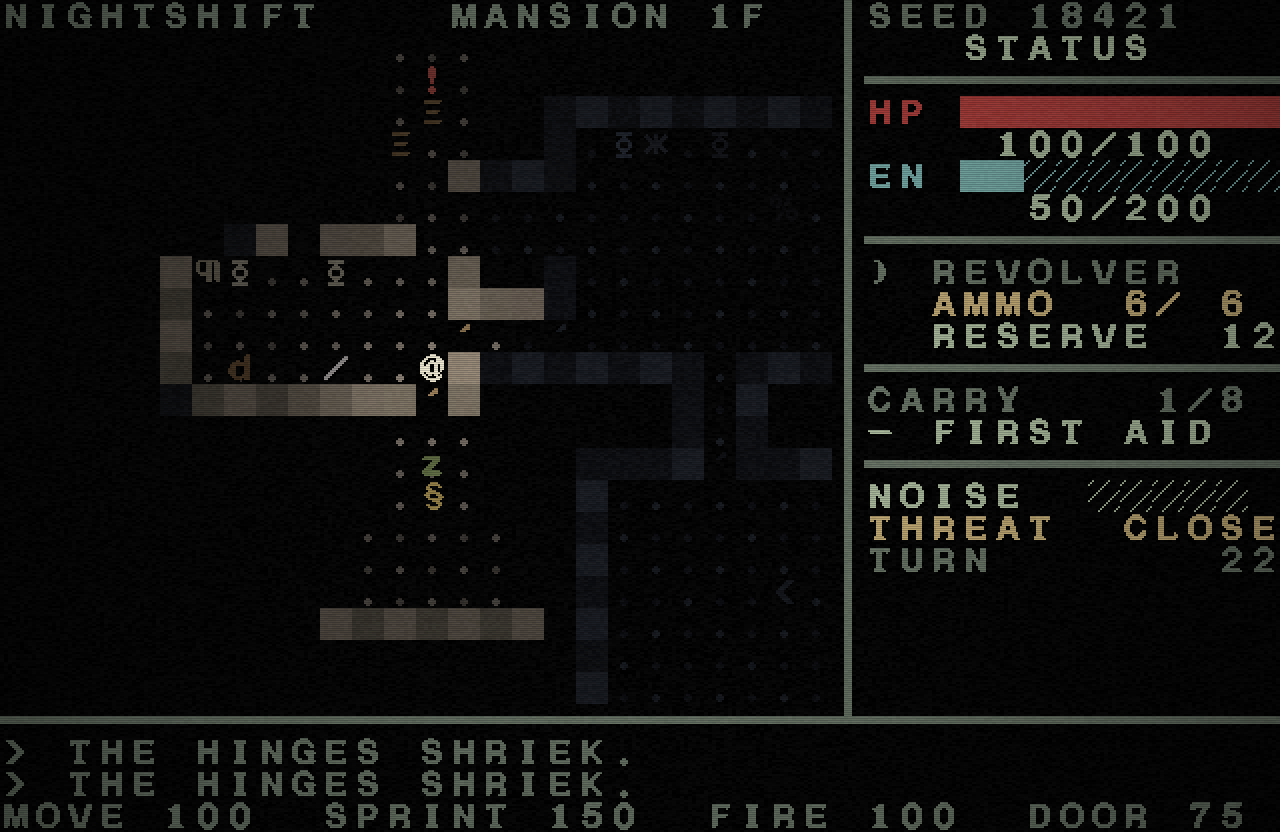
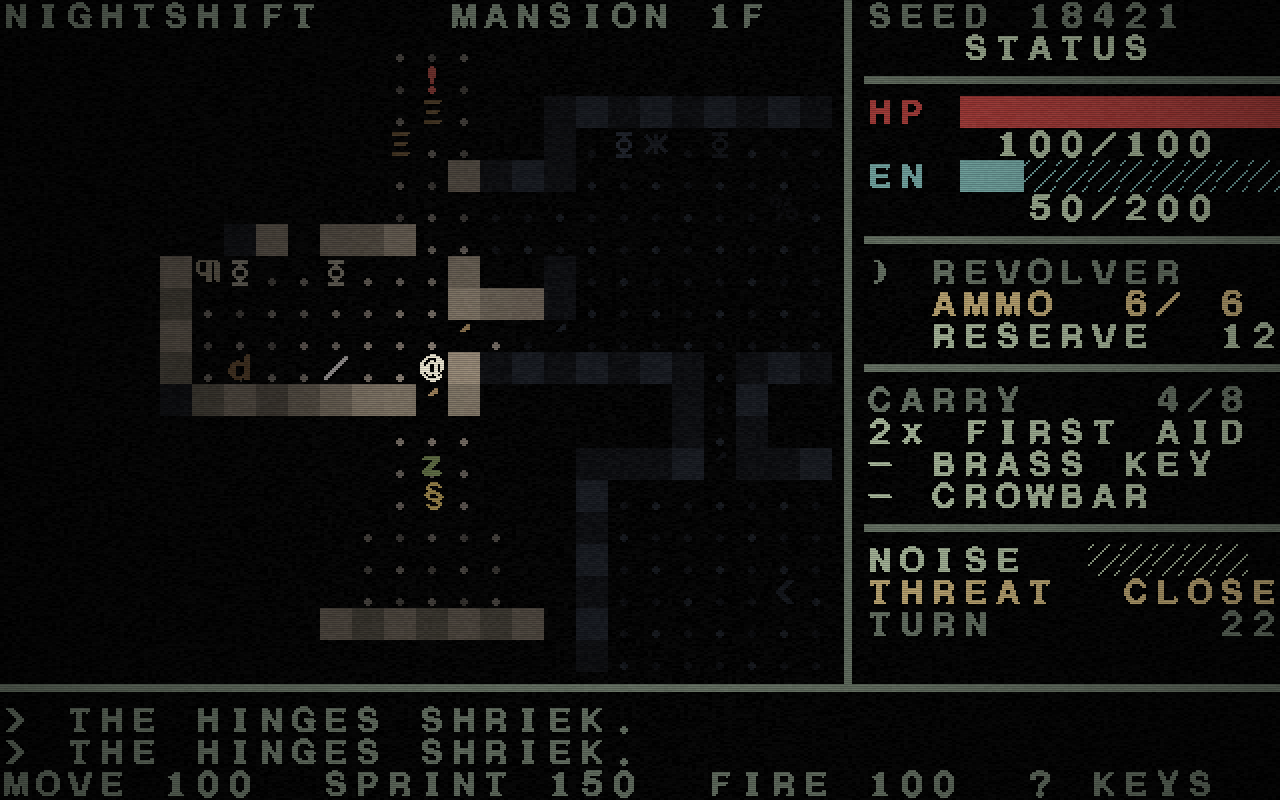
mockup3

diff --git a/experimental/ProjectNightshift/mockup.py b/experimental/ProjectNightshift/mockup.py
@@ -30,14 +30,14 @@ SHEET = HERE / "MSX-UnDeadPeopleEdition.png"
 
 SHEET_CELL = 32          # native glyph size in the sheet
 CELL = 16                # internal-surface cell size
-COLS, ROWS = 40, 26      # internal surface in cells
-SCALE = 2                # nearest-neighbour upscale factor
+COLS, ROWS = 40, 25      # internal surface in cells -> 640x400
+MAX_SCALE = 4            # nearest-neighbour upscale ceiling; actual pick fits the desktop
 
-VIEW_W, VIEW_H = 26, 21  # map viewport, top-left at (0, 1)
+VIEW_W, VIEW_H = 26, 20  # map viewport, top-left at (0, 1)
 MAP_X, MAP_Y = 0, 1
 DIVIDER_X = 26
 PANEL_X, PANEL_W = 27, 13
-LOG_Y = 23
+LOG_Y = 22
 
 LEVEL_W, LEVEL_H = 56, 38
 
@@ -921,8 +921,9 @@ def draw_hud(surface, font: Font, world: World, tick_count: int, debug: bool) ->
         (f"CARRY    {world.carried()}/8", UI_DIM),
     ]
     for name, count in list(world.inventory.items())[:5]:
-        suffix = f" x{count}" if count > 1 else ""
-        panel.append((f"- {name}{suffix}"[:PANEL_W], UI_TEXT))
+        # Count goes in front: a trailing "x2" is what gets clipped at 13 columns.
+        prefix = f"{count}x" if count > 1 else "-"
+        panel.append((f"{prefix} {name}"[:PANEL_W], UI_TEXT))
     panel.append((rule, UI_DIM))
     panel.append((f"NOISE  {bar(world.noise, 10, 5)}", UI_TEXT))
     panel.append((f"THREAT {threat:>6}", threat_colour))
@@ -939,13 +940,51 @@ def draw_hud(surface, font: Font, world: World, tick_count: int, debug: bool) ->
         alive = sum(1 for e in world.level.enemies if e.alive)
         footer = f"ROOMS {len(world.level.rooms)}  LIVE {alive}  AWAKE {awake}  FLOW {len(world.level.flow)}"
     else:
-        footer = "MOVE 100  SPRINT 150  FIRE 100  DOOR 75"
+        footer = "MOVE 100  SPRINT 150  FIRE 100  ? KEYS"
     font.text(surface, footer[:COLS], 0, LOG_Y + 2, UI_DIM)
 
     if world.dead:
         banner(surface, font, "YOU DIED", "N FOR A NEW SEED", tick_count)
     elif world.descended:
         banner(surface, font, "STAIRS DOWN", "SPACE TO DESCEND", tick_count)
+
+
+HELP_LINES = [
+    ("WASD / ARROWS", "MOVE 100"),
+    ("  + SHIFT", "SPRINT 150"),
+    ("BUMP ENEMY", "ATTACK 100"),
+    ("BUMP DOOR", "OPEN 75"),
+    ("SPACE", "WAIT 50"),
+    ("F  FIRE REVOLVER", "100"),
+    ("R  RELOAD", "125"),
+    ("Q  FIRST AID", "150"),
+    (None, None),
+    ("N", "NEW LEVEL"),
+    ("F1", "DEBUG OVERLAY"),
+    ("?", "THIS LIST"),
+    ("ESC", "QUIT"),
+]
+
+
+def draw_help(surface, font: Font) -> None:
+    inner = VIEW_W - 2
+    body = [f"{left:<{inner - len(right)}}{right}" if left else "─" * inner
+            for left, right in HELP_LINES]
+    body = ["CONTROLS", "─" * inner, *body, "─" * inner,
+            "ENERGY BUYS ACTIONS.", "TIME PASSES TO AFFORD."]
+
+    body = body[:VIEW_H - 2]          # never overflow the viewport
+    height = len(body) + 2
+    top = MAP_Y + max(0, (VIEW_H - height) // 2)
+    surface.fill(BLACK, pygame.Rect(MAP_X * CELL, top * CELL, VIEW_W * CELL, height * CELL))
+
+    font.text(surface, "┌" + "─" * inner + "┐", MAP_X, top, UI_DIM)
+    for offset, line in enumerate(body, start=1):
+        font.blit(surface, "│", MAP_X, top + offset, UI_DIM)
+        font.blit(surface, "│", MAP_X + VIEW_W - 1, top + offset, UI_DIM)
+        colour = UI_WARM if offset == 1 else UI_TEXT
+        font.text(surface, line[:inner], MAP_X + 1, top + offset, colour)
+    font.text(surface, "└" + "─" * inner + "┘", MAP_X, top + height - 1, UI_DIM)
 
 
 def banner(surface, font: Font, title: str, hint: str, tick_count: int) -> None:
@@ -987,18 +1026,22 @@ def make_grain(size, rng: random.Random) -> pygame.Surface:
     return surface
 
 
-def render_frame(font, internal, scanlines, vignette, grain, world, tick_count, debug) -> pygame.Surface:
+def render_frame(font, internal, scanlines, vignette, grain, world, tick_count,
+                 debug=False, show_help=False) -> pygame.Surface:
     flicker = 1.0 + 0.045 * math.sin(tick_count * 0.19) + 0.02 * math.sin(tick_count * 0.71)
 
     internal.fill(BLACK)
     draw_map(internal, font, world, flicker, debug)
     draw_hud(internal, font, world, tick_count, debug)
+    if show_help:
+        draw_help(internal, font)
 
     offset = (tick_count * 7) % grain.get_height()
     internal.blit(grain, (0, -offset), special_flags=pygame.BLEND_RGB_ADD)
     internal.blit(grain, (0, grain.get_height() - offset), special_flags=pygame.BLEND_RGB_ADD)
 
-    frame = pygame.transform.scale(internal, (COLS * CELL * SCALE, ROWS * CELL * SCALE))
+    # The post-pass surfaces were built for the window, so they define the size.
+    frame = pygame.transform.scale(internal, scanlines.get_size())
     frame.blit(scanlines, (0, 0), special_flags=pygame.BLEND_RGB_MULT)
     frame.blit(vignette, (0, 0), special_flags=pygame.BLEND_RGB_MULT)
     return frame
@@ -1013,6 +1056,29 @@ DIRECTIONS = {
     pygame.K_UP: (0, -1), pygame.K_w: (0, -1),
     pygame.K_DOWN: (0, 1), pygame.K_s: (0, 1),
 }
+
+
+def pick_scale(requested: int | None) -> int:
+    """Largest integer upscale that fits the desktop, leaving room for chrome.
+
+    Nearest-neighbour only looks right at whole multiples, so this steps down to
+    the next whole factor rather than fitting the screen exactly.
+    """
+    if requested:
+        return max(1, requested)
+    try:
+        desktop_w, desktop_h = pygame.display.get_desktop_sizes()[0]
+    except (AttributeError, IndexError, pygame.error):
+        info = pygame.display.Info()
+        desktop_w, desktop_h = info.current_w, info.current_h
+    # Title bar, borders, and a taskbar all eat into what a window can claim.
+    fits = min((desktop_w - 32) // (COLS * CELL), (desktop_h - 96) // (ROWS * CELL))
+    return max(1, min(MAX_SCALE, fits))
+
+
+def is_help_key(event) -> bool:
+    """'?' is shift+/ on US layouts but its own key elsewhere; accept either."""
+    return getattr(event, "unicode", "") == "?" or event.key == pygame.K_QUESTION
 
 
 def handle_key(world: World, event) -> World:
@@ -1049,6 +1115,8 @@ def main() -> None:
     parser = argparse.ArgumentParser(description="Project Nightshift prototype")
     parser.add_argument("--out", type=Path, help="render one frame headless and exit")
     parser.add_argument("--seed", type=int, default=None)
+    parser.add_argument("--scale", type=int, default=None,
+                        help="integer upscale factor (default: largest that fits the desktop)")
     args = parser.parse_args()
 
     if args.out:
@@ -1057,9 +1125,11 @@ def main() -> None:
         os.environ.setdefault("SDL_VIDEODRIVER", "dummy")
 
     pygame.init()
-    size = (COLS * CELL * SCALE, ROWS * CELL * SCALE)
+    scale = pick_scale(args.scale)
+    size = (COLS * CELL * scale, ROWS * CELL * scale)
     pygame.display.set_mode(size)
     pygame.display.set_caption("Project Nightshift")
+    print(f"{size[0]}x{size[1]} (scale {scale}) -- override with --scale N")
 
     seed = args.seed if args.seed is not None else random.randrange(10**5)
     world = new_world(seed)
@@ -1081,20 +1151,26 @@ def main() -> None:
     clock = pygame.time.Clock()
     tick_count = 0
     debug = False
+    show_help = False
     running = True
     while running:
         for event in pygame.event.get():
             if event.type == pygame.QUIT:
                 running = False
             elif event.type == pygame.KEYDOWN:
-                if event.key == pygame.K_ESCAPE:
+                if show_help:
+                    # Any key dismisses, so Escape closes the list before it quits.
+                    show_help = False
+                elif is_help_key(event):
+                    show_help = True
+                elif event.key == pygame.K_ESCAPE:
                     running = False
                 elif event.key == pygame.K_F1:
                     debug = not debug
                 else:
                     world = handle_key(world, event)
         screen.blit(render_frame(font, internal, scanlines, vignette, grain,
-                                 world, tick_count, debug), (0, 0))
+                                 world, tick_count, debug, show_help), (0, 0))
         pygame.display.flip()
         tick_count += 1
         clock.tick(30)
